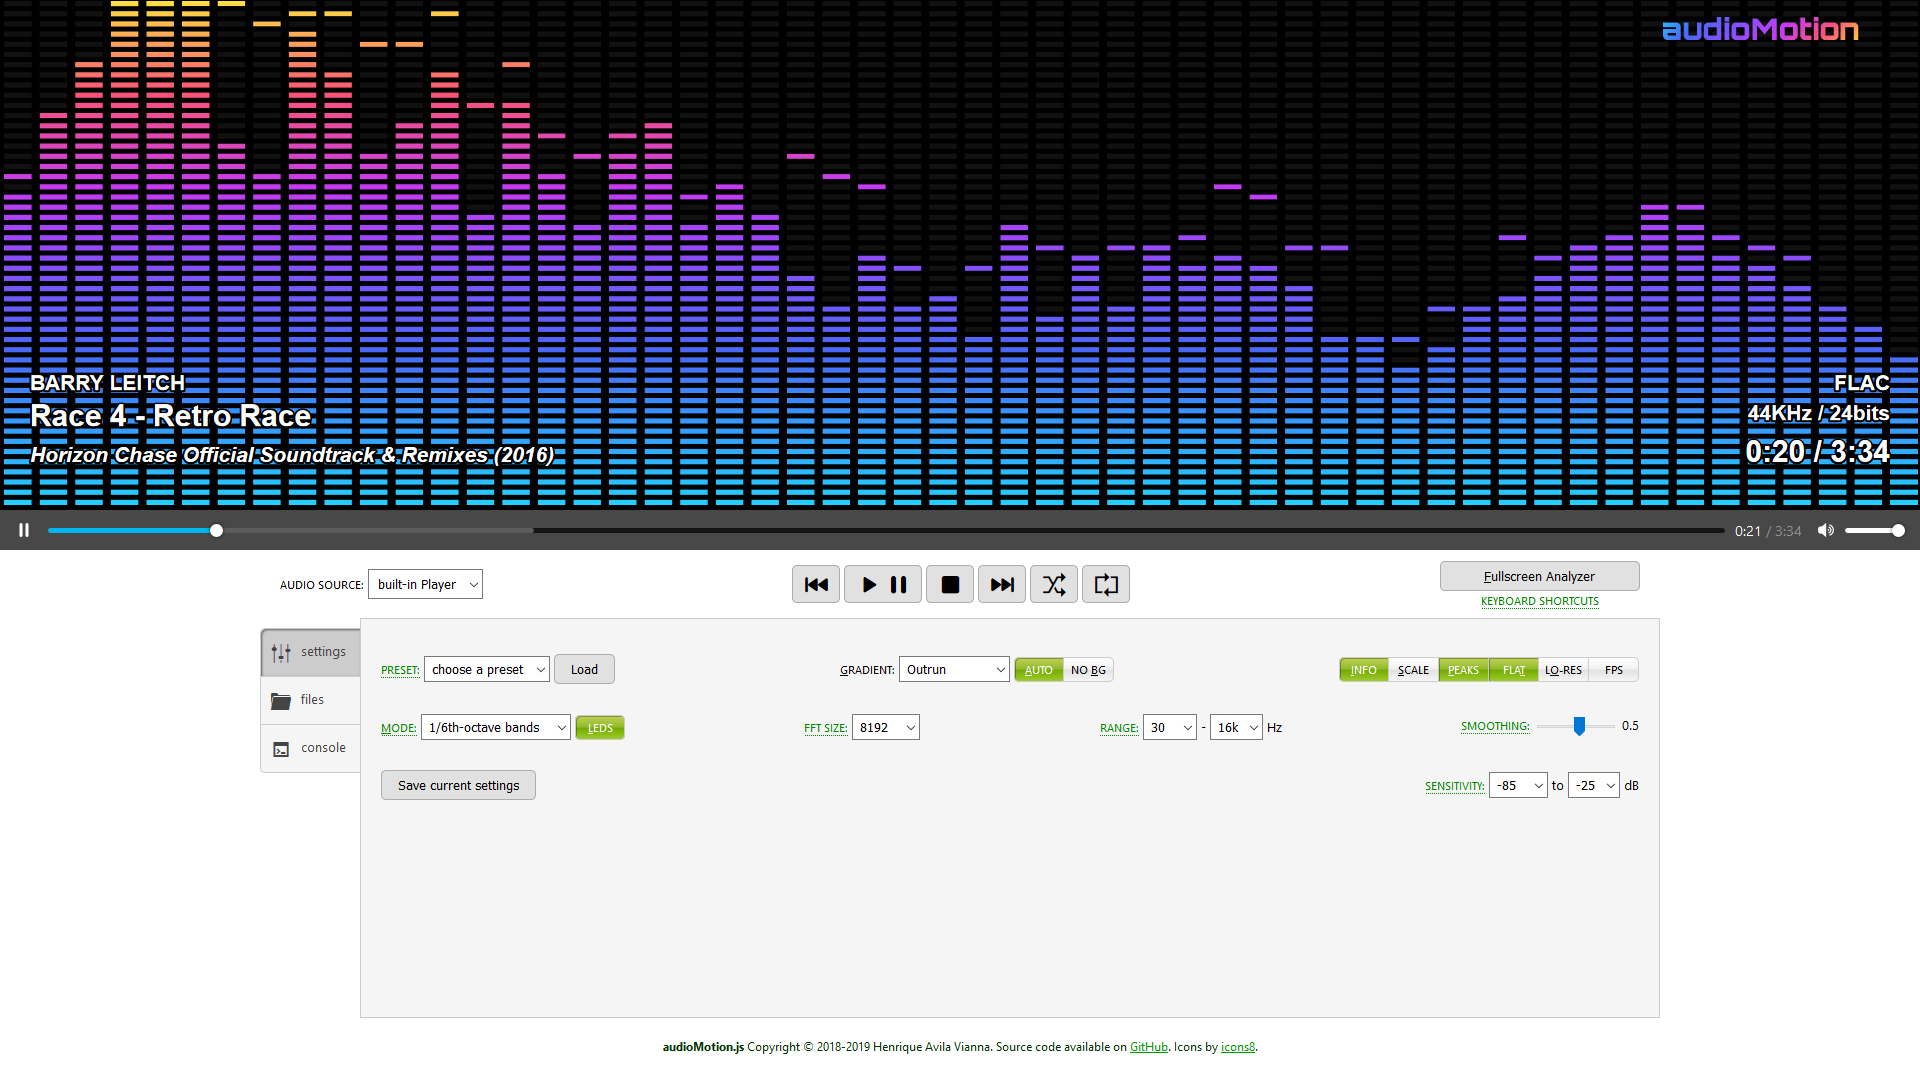
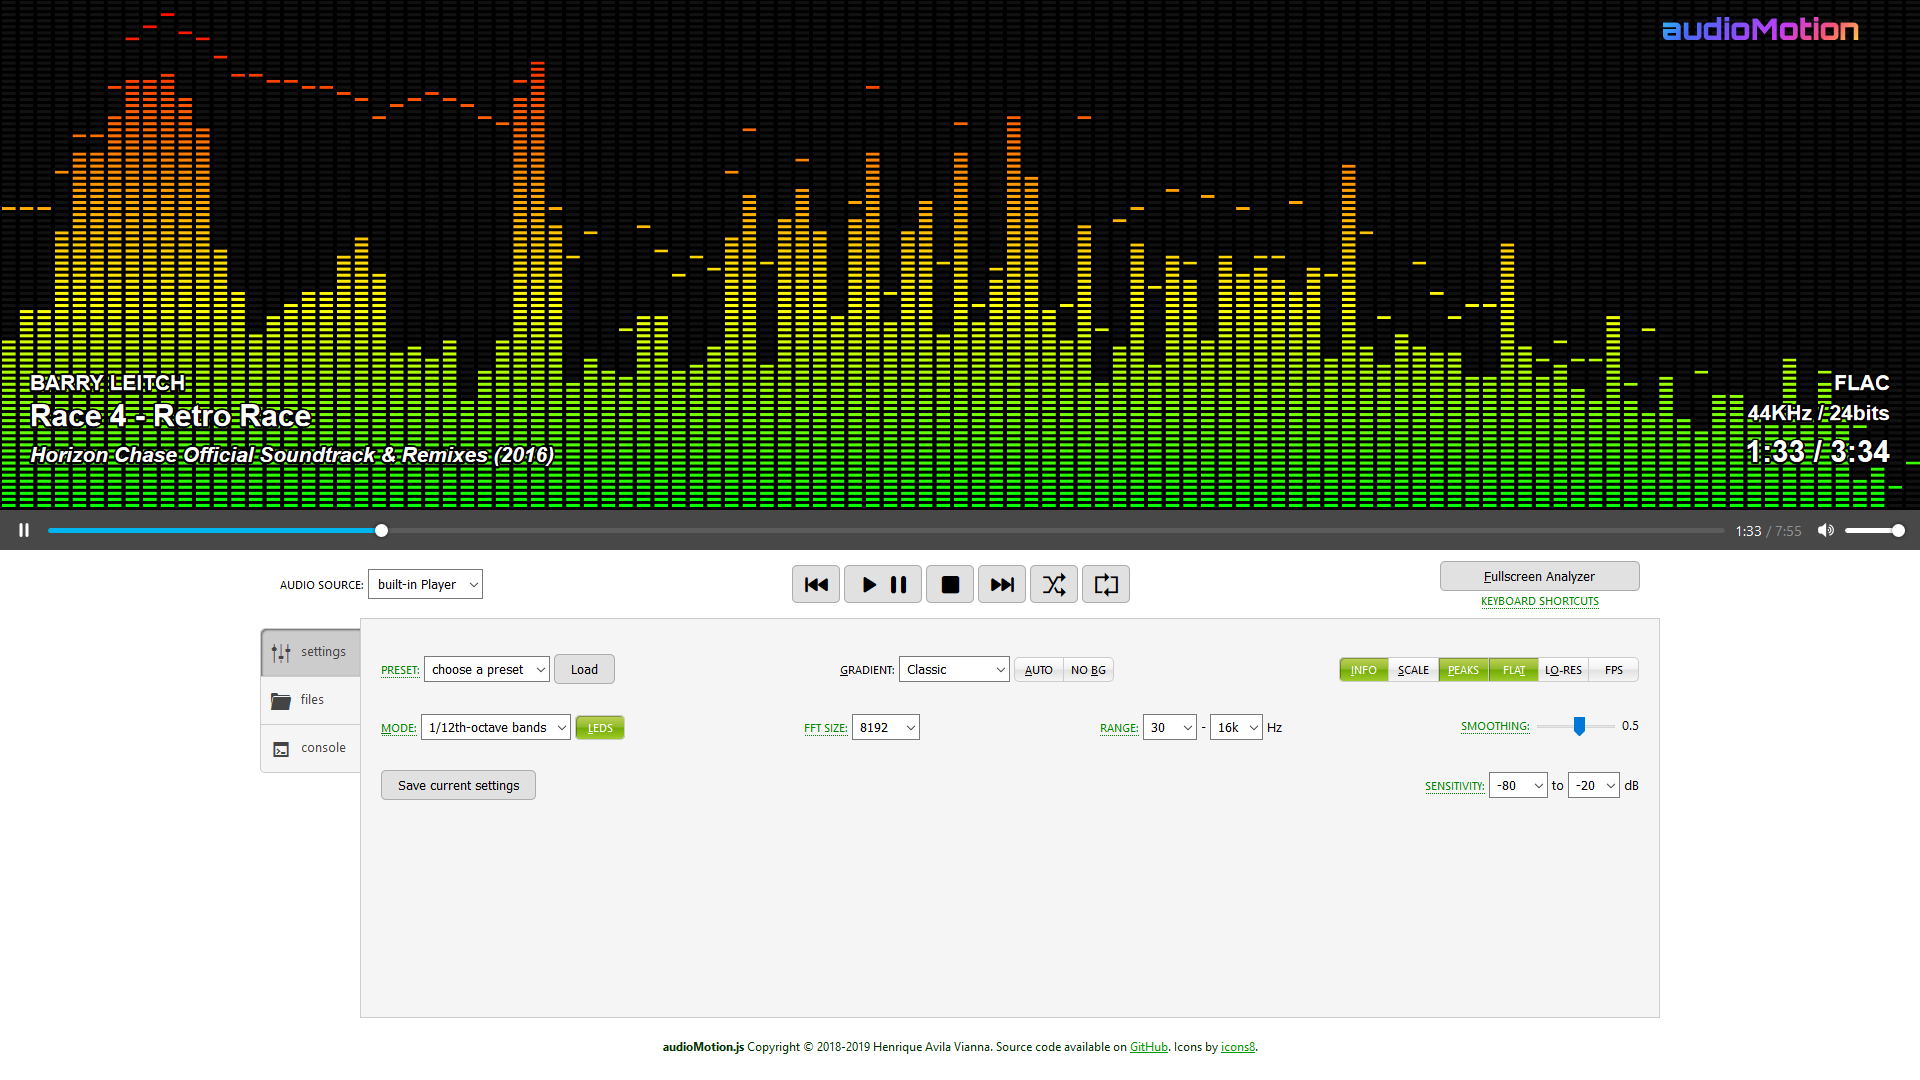
Update documentation.

diff --git a/docs/user-interface.md b/docs/user-interface.md
@@ -9,10 +9,10 @@ audioMotion.js User Interface
 
 ![ui-source](img/UI_source.png)
 
-Select *Microphone* to make audioMotion visualize audio from your microphone.
+Select *Microphone* to visualize audio from your microphone instead of the music player.
 
-If your sound card supports *Stereo mix* mode, it should be listed as an input device when access to your microphone is requested.
-The *Stereo mix* input allows audioMotion to receive audio generated by other programs running in your PC.
+If your sound card supports *Stereo mix* mode, this should be listed as an input device when access to your microphone is requested.
+The *Stereo mix* input allows audioMotion to read audio generated by any program running in your PC.
 Please note that the graphic visualization from this source might suffer a slight delay.
 
 ### Player controls
@@ -31,7 +31,7 @@ If the **Repeat** option is active, the player will loop back to the first song 
 
 Click the **Fullscreen Analyzer** button, or press the **F** key, to display the spectrum analyzer in fullscreen.
 
-You can use the keyboard shortcuts below to control the player and change display settings without leaving fullscreen mode:
+You can use the keyboard shortcuts below to control the player and change some settings without leaving fullscreen mode:
 
 | keys | alternate | action |
 |------|-----------|--------|
@@ -55,9 +55,9 @@ You can use the keyboard shortcuts below to control the player and change displa
 **U** | | shuffle playlist
 
 
-## Panels
+## User Interface Panels
 
-Below the main controls there are three tabbed panels: **Settings**, **Files** and **Console**.
+Panels are accessed by clicking the **Settings**, **Files** and **Console** tabs.
 
 ### Settings Panel
 
@@ -69,10 +69,10 @@ Below the main controls there are three tabbed panels: **Settings**, **Files** a
 
 The **Full resolution**, **Octave bands** and **LED bars** presets adjust the settings to recommended values for the discrete frequencies and octave bands visualization modes, with optional LED effect mode.
 
-You can tweak any options and save a favorite configuration by clicking the **Save current settings** button. You can later revert to this configuration by selecting the **Custom** preset.
+You can tweak any options and save a favorite configuration by clicking the **Save current settings** button. You can later revert to this configuration by loading the **Custom** preset.
 
-Additionally, your last used configuration will be automatically saved, and restored the next time you open audioMotion.
-You can manually select the **Last session** preset to undo any changes made during the current session.
+Additionally, your last used configuration will be automatically saved, and restored every time you open audioMotion.
+You can manually load the **Last session** preset to undo any changes made during the current session.
 
 The **Restore defaults** preset resets all options to their initial values as in the first time you run audioMotion.
 
@@ -82,10 +82,10 @@ The **Restore defaults** preset resets all options to their initial values as in
 
 Several options of color gradients for the analyzer bars. You can change gradients with the **Up** and **Down** arrow keys, or alternatively, **G** and **Shift + G** keys.
 
-Gradient-related switches:
+Switches:
 
 + **AUTO** when active, every track change will select the next gradient, cycling through the available options
-+ **NO BG** when active, sets a black background for the analyzer, instead of the color defined by each gradient (improves contrast)
++ **NO BG** when active, sets a black background for the analyzer, instead of the color defined by each gradient (may improve contrast)
 
 #### Analyzer switches
 
@@ -98,7 +98,7 @@ Gradient-related switches:
 
 **Performance-related options:**
 
-+ **FLAT** applies an outline instead of shadow on text displayed on canvas - may improve performance, depending on you graphic card and browser
++ **FLAT** applies an outline instead of shadow on text displayed on canvas - may improve performance, depending on your graphic card and browser
 + **LO-RES** reduces canvas resolution to improve rendering speed (especially useful for 4K+ displays)
 + **FPS** displays current framerate at the top right corner
 
@@ -108,7 +108,7 @@ The underlined character in each switch label indicates its keyboard shortcut, w
 
 ![ui-mode](img/UI_mode.png)
 
-Selects the visualization mode. *Discrete frequencies* allows you to visualize individual frequencies, limited only by the resolution of both the [FFT](https://en.wikipedia.org/wiki/Fast_Fourier_transform) and your display.
+Selects the visualization mode. *Discrete frequencies* mode allows you to visualize individual frequencies, limited only by the resolution of both the [FFT](https://en.wikipedia.org/wiki/Fast_Fourier_transform) and your display.
 The *octave bands* modes will display wider bars, representing ranges of frequencies based on a [24-tone equal tempered scale](https://en.wikipedia.org/wiki/Quarter_tone).
 
 You can also select the visualization mode using the **M** and **Shift + M** keyboard shortcuts.
@@ -139,7 +139,7 @@ Increase it if the animation looks too "jumpy".
 
 ![ui-sensitivity](img/UI_sensitivity.png)
 
-Adjust the minimum and maximum decibel values to improve the visualization of songs too quiet or too loud. **0** is the loudest possible sound volume.
+Adjust the minimum and maximum decibel values to improve the visualization of songs too quiet or too loud. **0** dB represents the loudest possible sound volume.
 
 You can also choose from three predefined sensitivity settings (low, normal and high) via the **N** and **Shift + N** keyboard shortcuts.
 
@@ -169,9 +169,9 @@ Press *Delete* (*Backspace* on Mac) to remove selected songs from the queue.
 
 **Clear** clears the current play queue. **Save as...** saves the current play queue as a new local playlist - these are stored in your browser's local storage.
 
-Saved playlists appear in the playlist selection box. Select a playlist and click the ![folder-button](img/folder-button.png) button to load it into the play queue.
-Press the ![disk-button](img/save-button.png) button to update the selected playlist with the current play queue contents.
-Press the ![trash-button](img/trash-button.png) button to permanently deleted the selected playlist.
+Saved playlists appear in the playlist selection box. Select a playlist and click the ![folder-button](img/folder-button.png "folder") button to load it into the play queue.
+Press the ![disk-button](img/save-button.png "diskette") button to update the selected playlist with the current play queue contents.
+Press the ![trash-button](img/trash-button.png "trashcan") button to permanently deleted the selected playlist.
 
 ### Console
 

diff --git a/README.md b/README.md
@@ -1,20 +1,21 @@
-![header](docs/img/audioMotion-header.png "audioMotion - high-resolution real-time audio spectrum analyzer and music player")
+![header](docs/img/audioMotion-header.png "audioMotion - high-resolution real-time spectrum analyzer and audio player")
 
 [![GitHub release](https://img.shields.io/github/release/hvianna/audioMotion.js.svg) ![GitHub Release Date](https://img.shields.io/github/release-date/hvianna/audioMotion.js.svg)](https://github.com/hvianna/audioMotion.js/releases/latest)
 
 ♪♫ **See** your music with **audioMotion**! ♪♫
 
-**audioMotion.js** is a high-resolution real-time graphic audio spectrum analyzer and full-featured music player written in JavaScript.
+**audioMotion.js** is a high-resolution real-time audio spectrum analyzer and full-featured music player written in JavaScript.
 
 ## Features
 
-* Beautiful high-resolution (retina / HiDPI ready) graphic audio spectrum analyzer with fullscreen display
+* High-resolution (retina / HiDPI ready) real-time audio spectrum analyzer
+* Fullscreen support at up to 60 frames per second
 * Logarithmic frequency scale with customizable range
 * Visualize discrete frequencies, or octave bands based on the equal tempered scale
 * Several color gradients with optional vintage LED effect
 * Customizable Web Audio API parameters (FFT size, sensitivity and time-smoothing)
 * HTML5 audio player supporting most popular audio formats, like MP3, AAC (M4A), OGG and FLAC (support may vary depending on browser and operating system)
-* Visual file explorer and play queue, with drag-n-drop support
+* Visual file explorer and play queue with drag-and-drop support
 * Supports M3U playlists (`m3u` and `m3u8` file extensions)
 * Visualize audio from your microphone (or "stereo mix", if your soundcard supports it)
 * Lightweight custom file server written in node.js — also works on standard web servers with minimal additional configuration
@@ -40,9 +41,10 @@ audioMotion -m c:\users\john\music
 
 This will start the server and should also launch the client in your browser.
 
-Other server options are:
+The complete command line options are:
 
 ```
+-m <path> : path to music directory
 -p <port> : change server listening port (default is 8000)
 -s        : start server only (do not launch client)
 -e        : allow external connections (by default, only localhost)
@@ -57,11 +59,11 @@ For complete documentation, see the [docs folder](docs/).
 Discrete frequencies mode. User interface showing the file explorer and play queue.
 ![screenshot1](docs/img/screenshot1.png "Discrete frequencies mode. User interface showing the file explorer and play queue.")
 
-1/6th-octave bands mode with LED effect and on-screen song information. User interface showing the settings panel.
-![screenshot2](docs/img/screenshot2.png "1/6th-octave bands mode with LED effect and on-screen song information. User interface showing the settings panel.")
+1/12th-octave bands mode with LED effect and on-screen song information. User interface showing the settings panel.
+![screenshot2](docs/img/screenshot2.png "1/12th-octave bands mode with LED effect and on-screen song information. User interface showing the settings panel.")
 
-Full screen view: 1/6th-octave bands mode, 30Hz-16KHz, "Classic" gradient, with complete on-screen information.
-![screenshot3](docs/img/screenshot3.png "Full screen view: 1/6th-octave bands mode, 30Hz-16KHz, 'Classic' gradient, with complete on-screen information")
+Full screen view: 1/6th-octave bands mode, 30Hz-16KHz, "Outrun" gradient, with complete on-screen information.
+![screenshot3](docs/img/screenshot3.png "Full screen view: 1/6th-octave bands mode, 30Hz-16KHz, 'Outrun' gradient, with complete on-screen information")
 
 Full screen view: Discrete frequencies mode, 20Hz-22KHz, frequency scale on, "Prism" gradient.
 ![screenshot4](docs/img/screenshot4.png "Full screen view: Discrete frequencies mode, 20Hz-22KHz, frequency scale on,'Prism' gradient")

diff --git a/Changelog.md b/Changelog.md
@@ -1,6 +1,35 @@
 Changelog
 =========
 
+## version 19.7
+
+### Added:
+
++ :fire: File explorer for easy navigation through your music files and folders;
++ Add, reorder and remove songs from the play queue, with drag-and-drop support;
++ Song info now shows actual metadata read from music files;
++ Save custom playlists to your browser's local storage;
++ Option to show the current frame rate;
++ New gradient: **Cool**;
++ Custom file server with portable binaries available for Windows, Linux and macOS - no setup required; :tada:
+
+### Changed:
+
++ :sunglasses: Major user interface overhaul - added tabbed panels for settings, file explorer / playlists, and console;
++ The analyzer canvas now properly adjusts to window size, without looking stretched;
++ Improved analyzer sensitivity customization - user can now set minimum and maximum dB values, or choose from three presets via [N] key;
++ The *previous* player button now skips to the beginning of the current song, press again within 2 seconds to skip to the previous track;
++ Shuffle button now immediatelly starts playing the shuffled playlist;
++ Frequency scale bar is now semi-transparent;
++ Increased frequency scale font size while in fullscreen;
++ `playlists.cfg` file is no longer required, but still supported as a legacy feature;
+
+### Removed:
+
++ *SENS* switch (toggle high sensitivity);
++ Demo playlists and music files.
+
+
 ## version 19.5
 
 ### Added:

diff --git a/docs/legacy.md b/docs/legacy.md
@@ -3,8 +3,8 @@ audioMotion.js legacy features
 
 ## Legacy playlists
 
-Up to version 19.5 audioMotion depended on a `playlists.cfg` file where you could register several playlists to load music files from.
-The file explorer introduced in version 19.??? made this obsolete, but its functionality is still supported for legacy users. Below is the original documentation.
+Up to version 19.5 audioMotion required a `playlists.cfg` file where you should register several playlists to load music files from.
+The file explorer introduced in version 19.7 made this file obsolete, but its functionality is still supported for legacy users. Below is the original documentation.
 
 The `playlists.cfg` file must be located in the same directory as the `index.html` file.
 It is a plain text file with one playlist per line, in the format `playlist title | /path/to/playlist-file.ext` (that's a "pipe" character between the title and the path).

diff --git a/docs/server.md b/docs/server.md
@@ -1,7 +1,7 @@
 audioMotion.js server options
 =============================
 
-Due to security mechanisms employed by web browsers, JavaScript can only read files via HTTP protocol, so it can't read music files from your local computer unless you have some server software running.
+Due to security mechanisms employed by web browsers, JavaScript can only read files via HTTP protocol, so it can't read music files from your local computer unless you have some HTTP server software running.
 
 audioMotion works with a variety of server options:
 

diff --git a/docs/README.md b/docs/README.md
@@ -9,7 +9,7 @@ audioMotion.js Documentation
   - [Audio source](user-interface.md#audio-source)
   - [Player controls](user-interface.md#player-controls)
   - [Fullscreen mode and keyboard shortcuts](user-interface.md#fullscreen-mode-and-keyboard-shortcuts)
-- [Panels](user-interface.md#panels)
+- [Panels](user-interface.md#user-interface-panels)
   - [Settings Panel](user-interface.md#settings-panel)
   - [Files Panel](user-interface.md#files-panel)
     - [File explorer](user-interface.md#file-explorer)
